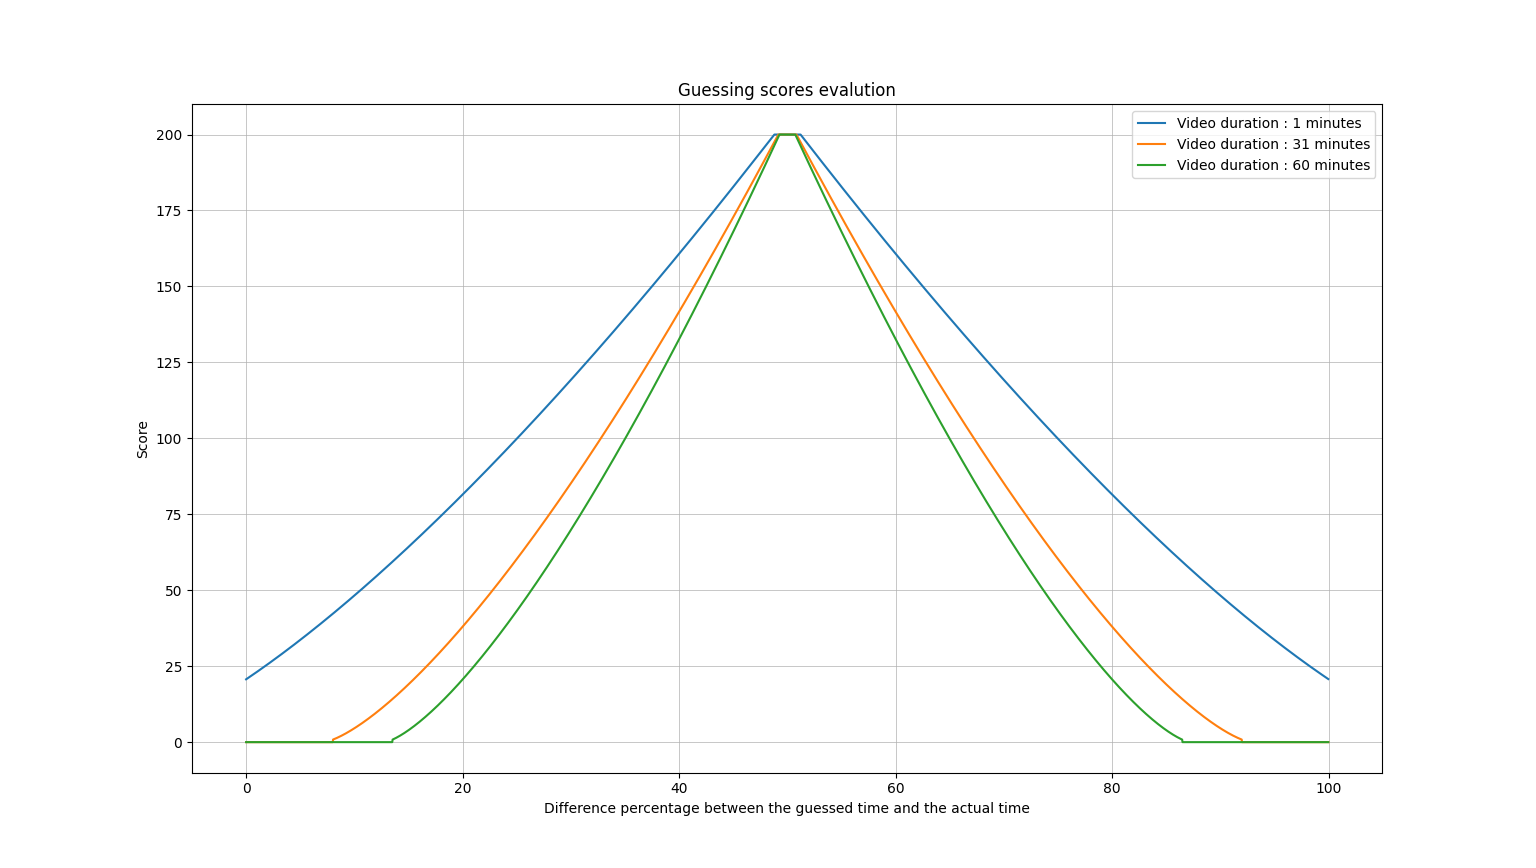
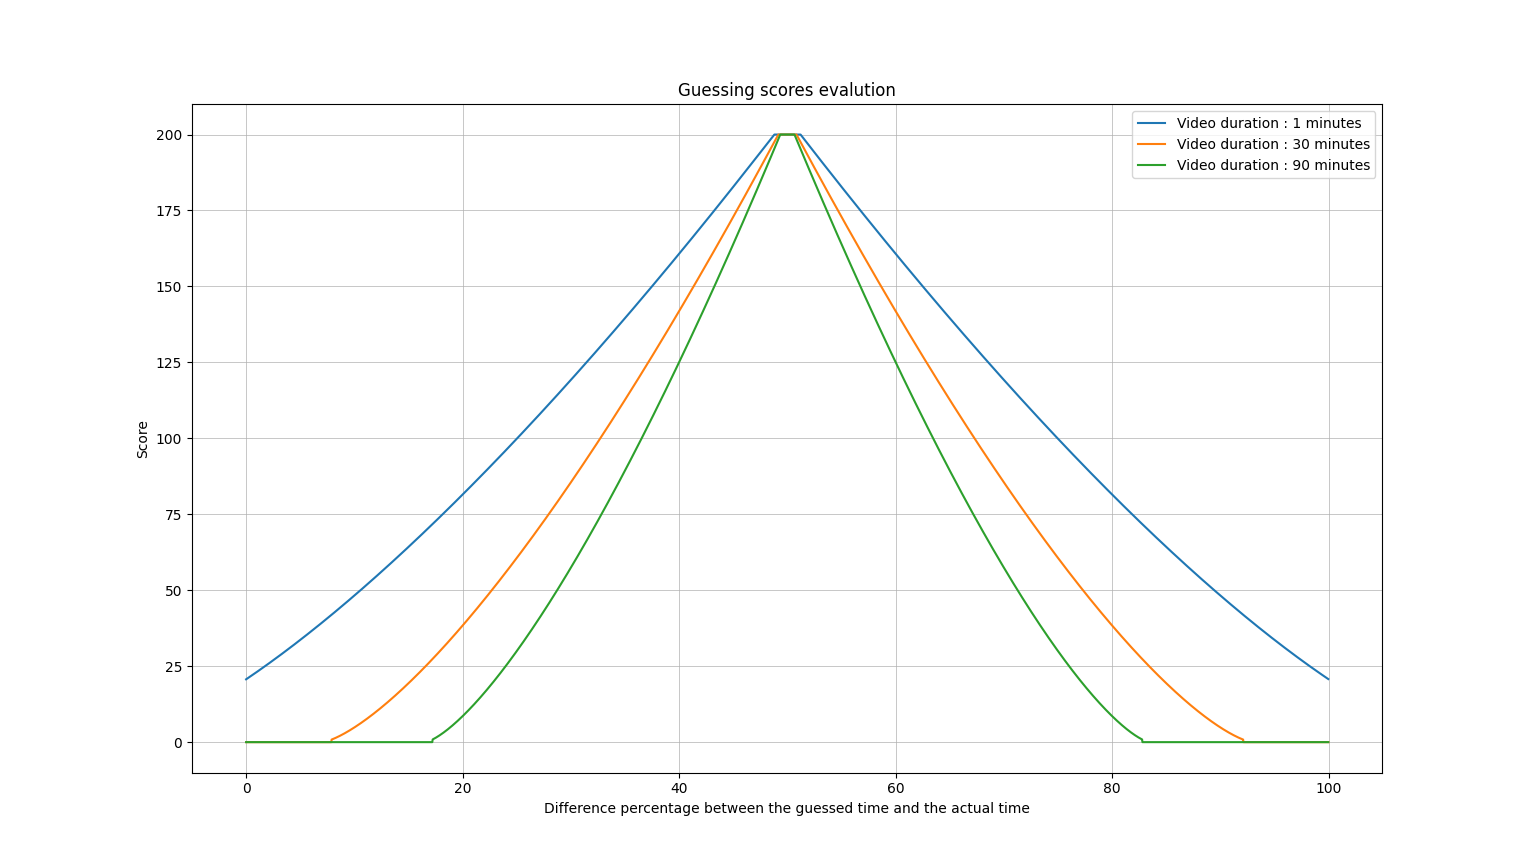
Updated images of the scoring function

diff --git a/test_fonctions_scores.py b/test_fonctions_scores.py
@@ -1,4 +1,5 @@
 #from quiz_module import score_guess_quadratic
+textes=[["Durée de la vidéo","Pourcentage d'écart entre le temps deviné et le temps réel","Évaluation des score du quiz"],["Video duration","Difference percentage between the guessed time and the actual time","Guessing scores evalution"]]
 import matplotlib.pyplot as plt
 from typing import Callable
 def score_guess_quadratic(guess_time:float, start_time:float, video_duration:float):
@@ -22,9 +23,8 @@ def score_guess_hybrid(guess_time:float,start_time:float,video_duration:float):
     error_ratio = error / max_error
     score=200*((1.02-error_ratio)**1.4)
     return min(200,score)
-def test_fonctions_scores(fonctiontest:Callable[[float, float, float], int],ecartmin:float=0,ecartmax:float=1,lengthmin:int=1,lengthmax:int=150,nblengths:int=100,nbpourcentages:int=100,correct_ratio:float=0.5):
+def test_fonctions_scores(fonctiontest:Callable[[float, float, float], int],ecartmin:float=0,ecartmax:float=1,lengthmin:int=1,lengthmax:int=150,video_lengths:list[int]|None=None,nblengths:int=100,nbpourcentages:int=100,correct_ratio:float=0.5):
     """fonctiontest prend en paramètre guesstime,start_time et video_duration (on considère que guess_time et start_time ne seront utilisés que pour calculer leurs différences)"""
-    
     lengths:list[float]=[lengthmin]
     pourcentages:list[float]=[ecartmin]
     for i in range(1,nblengths):
@@ -32,15 +32,22 @@ def test_fonctions_scores(fonctiontest:Callable[[float, float, float], int],ecar
     for i in range(1,nbpourcentages):
         pourcentages.append(100*(ecartmin+(ecartmax-ecartmin)/(nbpourcentages)*(i)))
     print(lengths,pourcentages)
-    plt.plot(pourcentages,[fonctiontest((lengths[0]*60)*pourcentages[i]/100,(lengths[0]*60*correct_ratio),lengths[0]*60) for i in range(len(pourcentages))])
-    plt.plot(pourcentages,[fonctiontest((lengths[nblengths//2]*60)*pourcentages[i]/100,lengths[nblengths//2]*60*correct_ratio,lengths[nblengths//2]*60) for i in range(len(pourcentages))])
-    plt.plot(pourcentages,[fonctiontest((lengths[nblengths-1]*60)*pourcentages[i]/100,lengths[nblengths-1]*60*correct_ratio,lengths[nblengths-1]*60) for i in range(len(pourcentages))])
-    plt.legend([f"Video duration : {lengths[0]} minutes",f"Video duration : {round(lengths[nblengths//2])} minutes",f"Video duration : {round(lengths[nblengths-1])} minutes"])
-    plt.xlabel("Difference percentage between the guessed time and the actual time")
-    plt.ylabel("Score")
-    plt.title("Guessing scores evalution")
-    plt.grid(which='major',linewidth=0.5)
-    plt.show()
+    for j in range(len(textes)):
+        if video_lengths:
+            for k in range(len(video_lengths)):
+                #plt.plot(pourcentages,[fonctiontest((video_lengths[j]*60*pourcentages[i]/100),video_lengths[j]*60*correct_ratio,video_lengths[j])])
+                plt.plot(pourcentages,[fonctiontest((video_lengths[k]*60)*pourcentages[i]/100,video_lengths[k]*60*correct_ratio,video_lengths[k]*60) for i in range(len(pourcentages))])
+            plt.legend([f"{textes[j][0]} : {video_lengths[k]} minutes" for k in range(len(video_lengths))])
+        else:
+            plt.plot(pourcentages,[fonctiontest((lengths[0]*60)*pourcentages[i]/100,(lengths[0]*60*correct_ratio),lengths[0]*60) for i in range(len(pourcentages))])
+            plt.plot(pourcentages,[fonctiontest((lengths[nblengths//2]*60)*pourcentages[i]/100,lengths[nblengths//2]*60*correct_ratio,lengths[nblengths//2]*60) for i in range(len(pourcentages))])
+            plt.plot(pourcentages,[fonctiontest((lengths[nblengths-1]*60)*pourcentages[i]/100,lengths[nblengths-1]*60*correct_ratio,lengths[nblengths-1]*60) for i in range(len(pourcentages))])
+            plt.legend([f"{textes[j][0]} : {lengths[0]} minutes",f"{textes[j][0]} : {round(lengths[nblengths//2])} minutes",f"{textes[j][0]} : {round(lengths[nblengths-1])} minutes"])
+        plt.xlabel(textes[j][1])
+        plt.ylabel("Score")
+        plt.title(textes[j][2])
+        plt.grid(which='major',linewidth=0.5)
+        plt.show()
     """exp=" "*6
     for i in range(nblengths):
         exp+=str(round(lengths[i],1))+" "*(6-len(str(round(lengths[i],1))))
@@ -54,4 +61,4 @@ def test_fonctions_scores(fonctiontest:Callable[[float, float, float], int],ecar
     print(exp)"""
     return
 
-test_fonctions_scores(score_guess_quadratic,nbpourcentages=3000,nblengths=3000,correct_ratio=0.5,lengthmax=60)
+test_fonctions_scores(score_guess_quadratic,nbpourcentages=3000,nblengths=3000,correct_ratio=0.5,lengthmax=60,video_lengths=[1,30,90])
